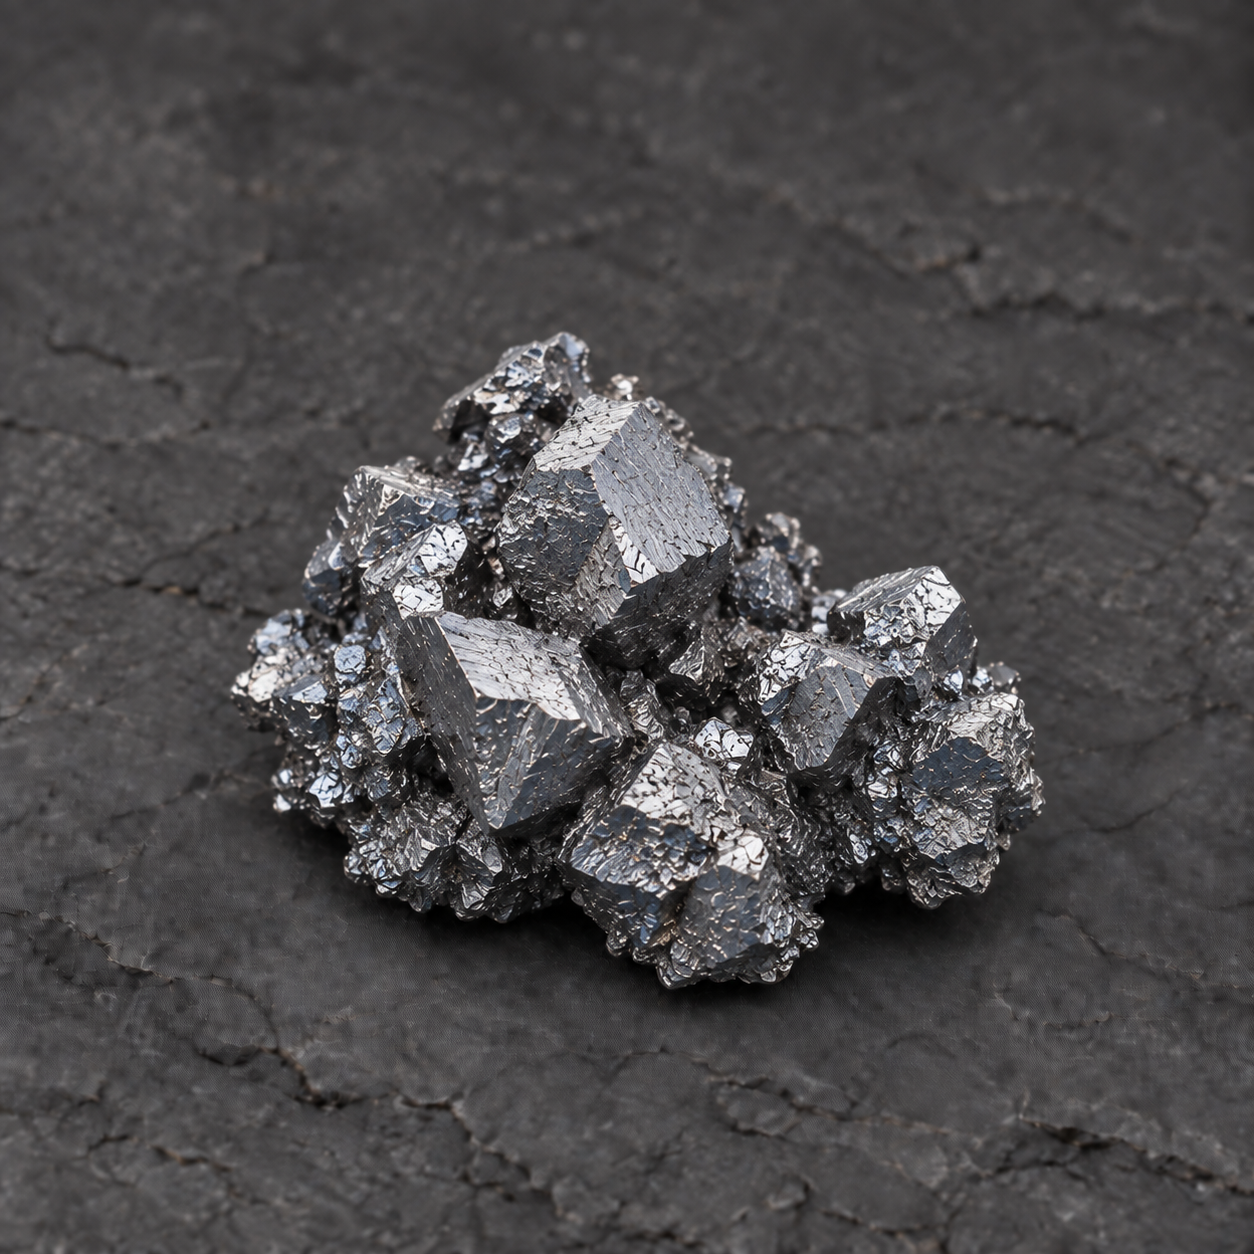
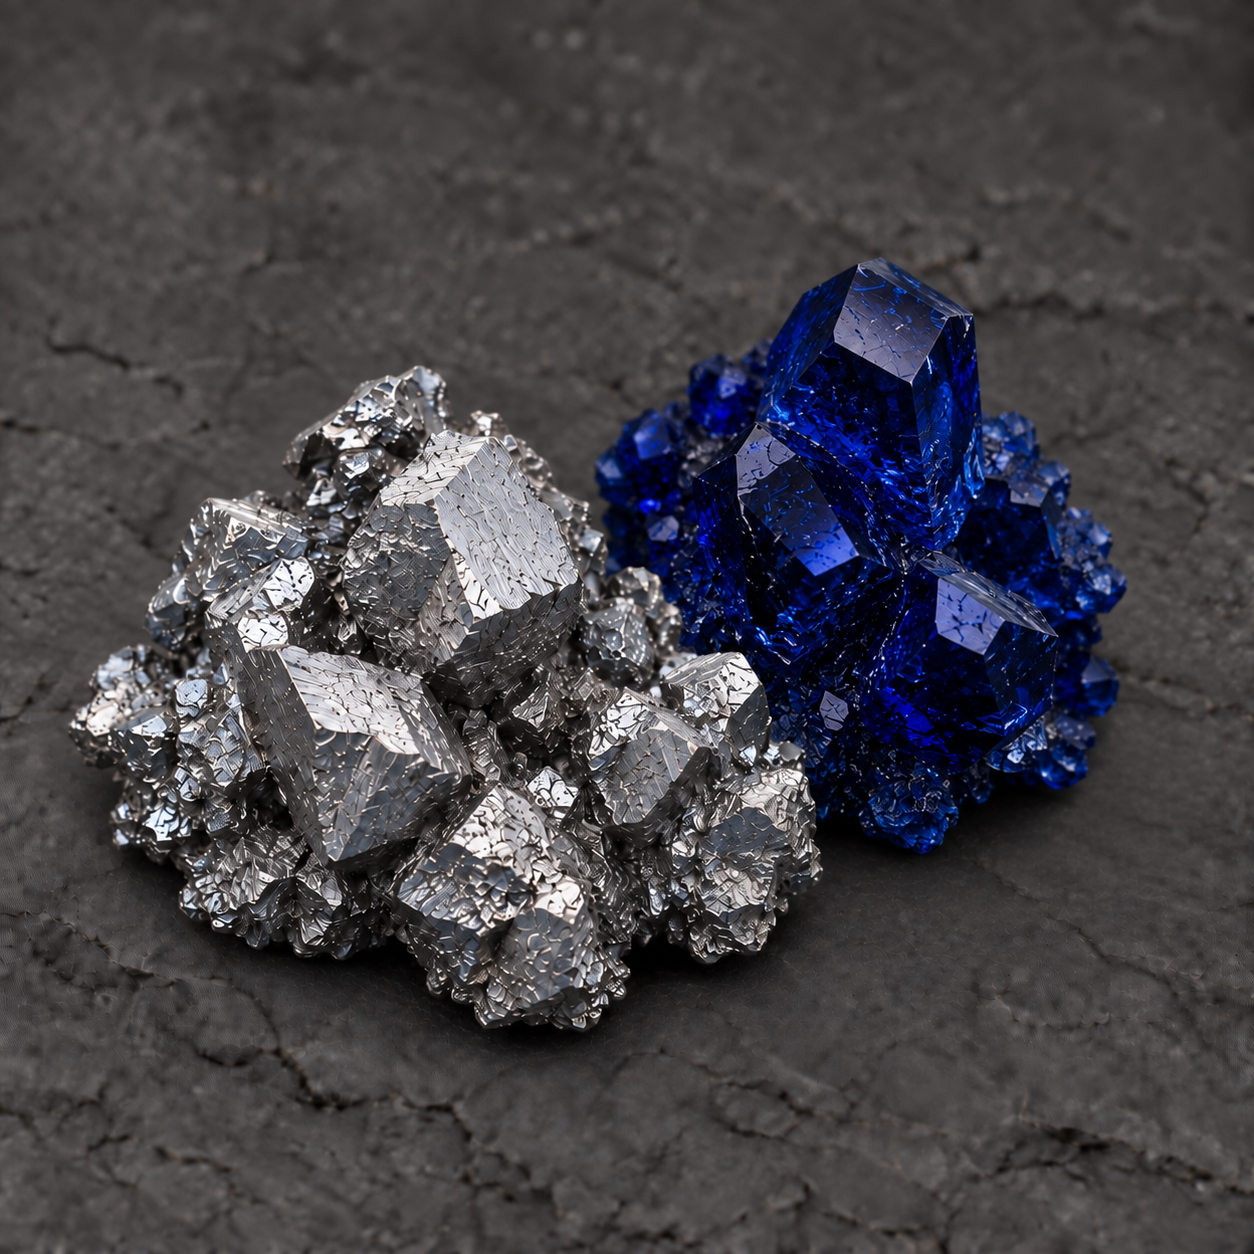
updated cobalt element

diff --git a/metals_ui/js/views/catalog/element-details-view.js b/metals_ui/js/views/catalog/element-details-view.js
@@ -39,7 +39,7 @@ function createDetails(element) {
   visual.className = "details-visual";
   const image = document.createElement("img");
   image.src = `${elementImageDirectory}/${element.symbol}.png`;
-  image.alt = `${element.name} specimen on slate`;
+  image.alt = element.symbol === "Co" ? "Silvery cobalt metal beside a rich blue crystal on slate" : `${element.name} specimen on slate`;
   image.addEventListener("error", () => {
     image.src = fallbackElementImage;
     image.alt = "Generic atomic element illustration";

diff --git a/metals_ui/js/views/catalog/elements-view.js b/metals_ui/js/views/catalog/elements-view.js
@@ -93,7 +93,7 @@ function createElementCard(element) {
   const image = document.createElement("img");
   image.className = "element-card__image";
   image.src = `${elementImageDirectory}/${element.symbol}.png`;
-  image.alt = `${element.name} specimen on slate`;
+  image.alt = element.symbol === "Co" ? "Silvery cobalt metal beside a rich blue crystal on slate" : `${element.name} specimen on slate`;
   image.loading = "lazy";
   image.addEventListener("error", () => {
     image.src = fallbackElementImage;
